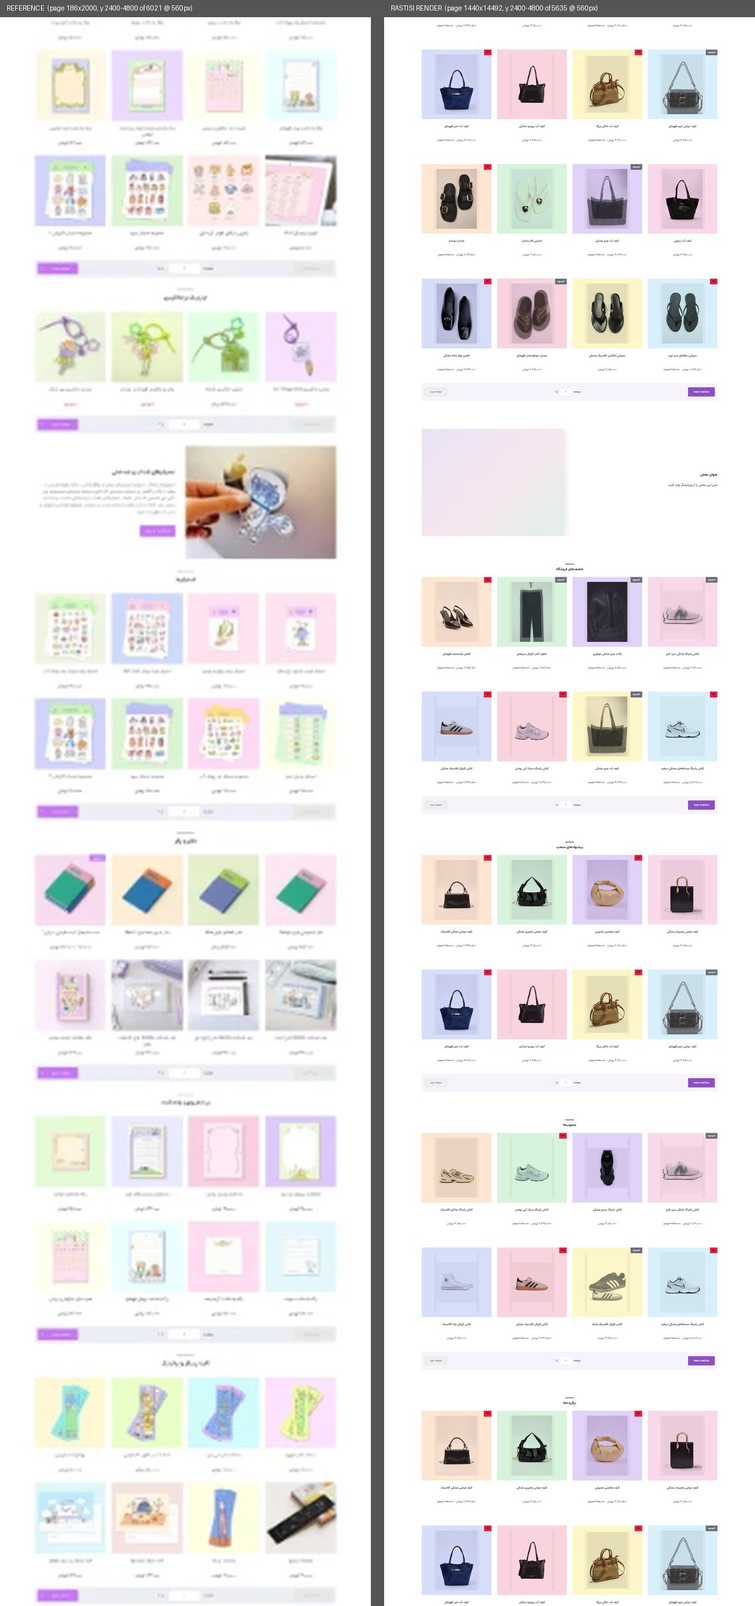
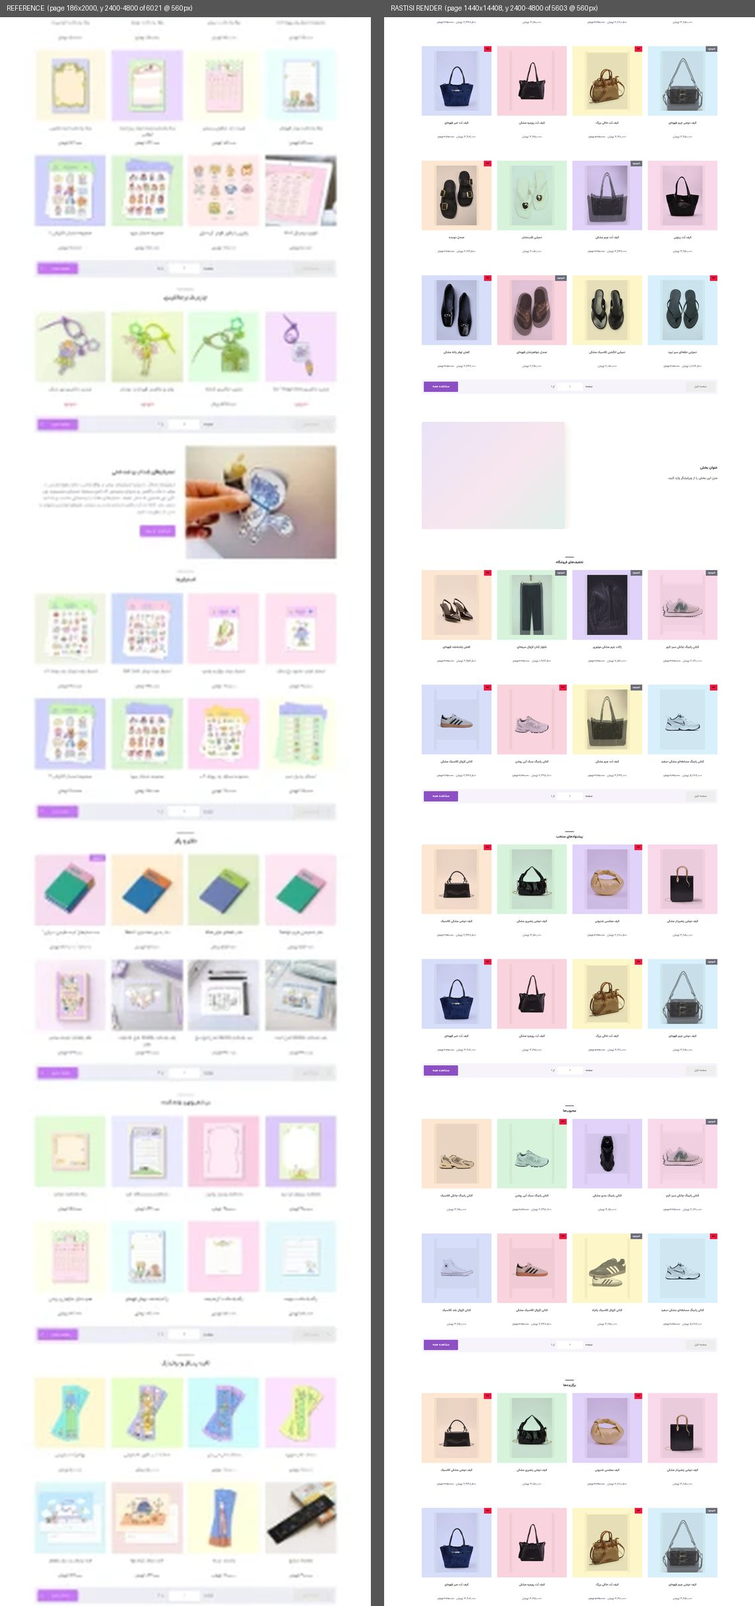
feat(templates): final fidelity closure for 51-53 (blog/brand panels, editorial tiles, pager, neutral copy, chocolate title contrast)
Claude-Session: https://claude.ai/code/session_01B3gctufboA238CDom4n7Gw

diff --git a/apps/storefront_builder/static/css/storefront_builder.css b/apps/storefront_builder/static/css/storefront_builder.css
@@ -5016,7 +5016,7 @@ a.sfb-v3-component-item,
 .category-chocolate-story-label{max-width:102px;font-size:10px;font-weight:650;line-height:1.35;white-space:nowrap;overflow:hidden;text-overflow:ellipsis}
 .category-chocolate-section{margin:16px 0 24px}
 .chocolate-section-title{text-align:center;margin-bottom:14px}
-.chocolate-section-title h2{font-size:15px;font-weight:800;color:var(--sfb-section-fg,#3c2b1d);margin:0}
+.chocolate-section-title h2{font-size:15px;font-weight:800;color:var(--sfb-section-fg,var(--ink,#3c2b1d));margin:0}
 .category-chocolate-grid{display:grid;grid-template-columns:repeat(6,minmax(0,1fr));gap:18px 16px}
 .category-chocolate-tile{display:flex;flex-direction:column;align-items:center;gap:8px;text-align:center;min-width:0;color:#3c2b1d}
 .category-chocolate-media{width:124px;height:98px;display:grid;place-items:center;position:relative;border-radius:48% 52% 45% 55%/58% 45% 55% 42%;background:#E7D1B7;overflow:hidden;box-shadow:0 3px 10px rgba(93,54,22,.07)}
@@ -5699,26 +5699,28 @@ html[data-sfb-density="compact"] .feat small{font-size:9.5px}
 
 /* ---- category_grid: gradient editorial tiles (52) ------------------ */
 .category-gradient-section{margin:22px 0 8px}
-.category-gradient-grid{display:grid;grid-template-columns:repeat(4,minmax(0,1fr));gap:20px}
-.category-gradient-tile{position:relative;display:block;aspect-ratio:1.37/1;border-radius:18px;overflow:hidden;text-decoration:none;background:#dfe6fa;color:#1d1d2b;min-width:0}
-.category-gradient-tile:nth-child(4n+1){background:linear-gradient(135deg,#c7d1f6,#e8ecfb)}
-.category-gradient-tile:nth-child(4n+2){background:linear-gradient(135deg,#f9e2a1,#fdf1cf)}
-.category-gradient-tile:nth-child(4n+3){background:linear-gradient(135deg,#cfe3f6,#eef5fb)}
-.category-gradient-tile:nth-child(4n+4){background:linear-gradient(135deg,#f8d3bf,#fde9e0)}
-.category-gradient-title{position:absolute;z-index:2;top:9%;inset-inline-start:7%;font-size:clamp(17px,2vw,27px);font-weight:900;line-height:1.35;color:#1d1d2b}
-.category-gradient-media{position:absolute;inset:auto auto 0 0;width:58%;height:60%;display:grid;align-items:end;justify-items:start}
-.category-gradient-media img{width:100%;height:100%;object-fit:contain;object-position:left bottom}
+.category-gradient-grid{display:grid;grid-template-columns:repeat(4,minmax(0,1fr));gap:32px}
+.category-gradient-tile{position:relative;display:block;aspect-ratio:1.35/1;border-radius:22px;overflow:hidden;text-decoration:none;background:#dfe6fa;color:#1d1d2b;min-width:0}
+.category-gradient-tile:nth-child(4n+1){background:linear-gradient(135deg,#f6c3d0,#fde4dc)}
+.category-gradient-tile:nth-child(4n+2){background:linear-gradient(135deg,#b8ccf8,#e2eafd)}
+.category-gradient-tile:nth-child(4n+3){background:linear-gradient(135deg,#f5d98a,#fcefbd)}
+.category-gradient-tile:nth-child(4n+4){background:linear-gradient(135deg,#8d95de,#b8bef0)}
+.category-gradient-title{position:absolute;z-index:2;top:12%;inset-inline-start:8%;font-size:19px;font-weight:900;line-height:1.35;color:#1d1d2b}
+.category-gradient-media{position:absolute;inset:auto auto 0 0;width:48%;height:72%;display:grid;align-items:end;justify-items:start}
+.category-gradient-media img{width:100%;height:100%;object-fit:contain;object-position:left bottom;mix-blend-mode:multiply}
 @media(max-width:900px){.category-gradient-grid{grid-template-columns:repeat(2,minmax(0,1fr));gap:12px}}
 
 /* ---- product_section: catalog_grid (53) ---------------------------- */
 .product-section--catalog-grid{margin:34px 0 8px}
 .rsec .product-section--catalog-grid .grid.catalog-grid-products{gap:62px 22px}
-.catalog-grid-bar-row{display:grid;grid-template-columns:auto 1fr auto;align-items:center;gap:12px;margin-top:22px;padding:8px 10px;background:color-mix(in srgb,var(--brand-primary) 7%,var(--brand-surface,#fff));min-height:70px}
-.catalog-grid-more{display:inline-flex;align-items:center;justify-content:center;height:36px;padding-inline:22px;background:var(--brand-primary);color:var(--brand-primary-fg,#fff);font-size:11px;font-weight:700;text-decoration:none;border-radius:3px}
+.catalog-grid-bar-row{display:grid;grid-template-columns:auto 1fr auto;align-items:center;gap:12px;margin-top:22px;padding:6px 8px;background:color-mix(in srgb,var(--brand-primary) 7%,var(--brand-surface,#fff));min-height:56px}
+/* reference order: the previous-page control (disabled on page 1) at the start edge, the action button at the end edge */
+.catalog-grid-next{order:1}.catalog-grid-page{order:2}.catalog-grid-more{order:3}
+.catalog-grid-more{display:inline-flex;align-items:center;justify-content:center;height:40px;padding-inline:34px;background:var(--brand-primary);color:var(--brand-primary-fg,#fff);font-size:12px;font-weight:700;text-decoration:none;border-radius:3px}
 .catalog-grid-more:hover{background:var(--brand-primary-hover,var(--brand-primary));color:var(--brand-primary-hover-fg,var(--brand-primary-fg,#fff))}
 .catalog-grid-page{justify-self:center;display:inline-flex;align-items:center;gap:8px;font-size:11px;color:var(--brand-text)}
-.catalog-grid-page-box{display:inline-grid;place-items:center;min-width:44px;height:30px;border:1px solid var(--brand-border);background:var(--brand-surface,#fff);border-radius:3px}
-.catalog-grid-next{justify-self:end;display:inline-flex;align-items:center;height:36px;padding-inline:22px;border-radius:3px;font-size:11px;background:var(--disabled-bg);color:var(--disabled-ink)}
+.catalog-grid-page-box{display:inline-grid;place-items:center;min-width:104px;height:34px;border:1px solid var(--brand-border);background:var(--brand-surface,#fff);border-radius:3px}
+.catalog-grid-next{justify-self:start;display:inline-flex;align-items:center;height:40px;padding-inline:34px;border-radius:3px;font-size:11px;background:var(--disabled-bg);color:var(--disabled-ink)}
 @media(max-width:680px){.catalog-grid-bar-row{grid-template-columns:auto 1fr;}.catalog-grid-next{display:none}.rsec .product-section--catalog-grid .grid.catalog-grid-products{gap:28px 12px}}
 
 /* ---- image_text: plain split block (53) ---------------------------- */
@@ -5765,4 +5767,23 @@ html[data-sfb-density="compact"] .feat small{font-size:9.5px}
 /* -- the empty-state note of a product rail sits on a SOLID panel when the section carries a pattern -- */
 .rsec[data-pattern] .rsec-cols>p{grid-column:1/-1;margin:0 auto;padding:10px 16px;border-radius:10px;
   background-color:var(--sfb-section-palette-bg,var(--card));color:var(--sfb-section-fg,var(--ink))!important}
+
+/* -- blog_posts panel_carousel (surface panel + one row of square-image cards) -- */
+.blog-panel{background:var(--card,#fff);border-radius:14px;box-shadow:0 1px 8px rgba(15,23,42,.06);padding:16px 22px 22px;margin:14px 0}
+.blog-panel-head{margin-bottom:14px}
+.blog-panel-head h2{display:inline-block;margin:0;padding-bottom:5px;border-bottom:2px solid var(--pink);font-size:13px;font-weight:800;color:var(--ink)}
+.blog-panel-row{display:grid;grid-template-columns:repeat(6,minmax(0,1fr));gap:14px}
+.blog-panel .blog-card--panel{display:grid;gap:8px;align-content:start;background:transparent;border:0;box-shadow:none;text-align:center}
+.blog-panel .blog-card--panel .th{position:relative;height:auto;aspect-ratio:1/1;border-radius:10px;overflow:hidden}
+.blog-panel .blog-card--panel .blog-badge{position:absolute;top:8px;inset-inline-start:8px;padding:2px 9px;border-radius:99px;background:var(--pink);color:var(--on-pink);font-size:9px;font-weight:700;line-height:1.6}
+.blog-panel .blog-card--panel .bd{padding:0}
+.blog-panel .blog-card--panel h4{margin:0 0 8px;min-height:3.4em;font-size:11px;line-height:1.7;color:var(--ink);display:-webkit-box;-webkit-line-clamp:2;-webkit-box-orient:vertical;overflow:hidden}
+.blog-panel .blog-card--panel .read{justify-content:center;padding:6px 10px;border-radius:99px;background:var(--green);color:#fff;font-size:10px}
+@media(max-width:1000px){.blog-panel-row{grid-template-columns:repeat(3,minmax(0,1fr))}}
+@media(max-width:680px){.blog-panel-row{grid-template-columns:repeat(2,minmax(0,1fr))}.blog-panel{padding:14px 12px 16px}}
+/* -- a brand carousel on a WHITE colour band reads as a surface panel (centred title with an accent underline) -- */
+.rsec[data-bg-mode="color"][style*="#FFFFFF" i]:has(>.section>.brand-carousel){border-radius:14px;box-shadow:0 1px 8px rgba(15,23,42,.06);padding:16px 22px;margin:14px 0}
+.rsec[data-bg-mode="color"][style*="#FFFFFF" i]:has(>.section>.brand-carousel)>.section>.sec-head{justify-content:center}
+.rsec[data-bg-mode="color"][style*="#FFFFFF" i]:has(>.section>.brand-carousel)>.section>.sec-head h2{padding-bottom:5px;border-bottom:2px solid var(--pink)}
+.rsec[data-bg-mode="color"][style*="#FFFFFF" i]:has(>.section>.brand-carousel)>.section>.sec-head h2 .bar{display:none}
 /* REF-TEMPLATES-51-53 END */

diff --git a/apps/storefront_builder/templates/storefront_builder/sections/blog_posts.html b/apps/storefront_builder/templates/storefront_builder/sections/blog_posts.html
@@ -3,7 +3,26 @@ Phase 3 — بلوکِ جدیدِ «مطالب وبلاگ»، ساده و قاب
 یک رندرکنندهی مختصِ V5). صفحهی جزئیاتِ مطلب هنوز در پروژه وجود ندارد
 — دقیقاً همان محدودیتِ ``catalog/home.html``ی قدیمی (``href="#"``).
 {% endcomment %}
-{% if posts %}
+{% if posts and settings.style == "panel_carousel" %}
+<section class="section blog-panel">
+  <div class="blog-panel-head"><h2>{{ settings.title|default:"آخرین مطالب وبلاگ" }}</h2></div>
+  <div class="blog-panel-row">
+    {% for post in posts %}
+    <a class="blog-card blog-card--panel" href="#">
+      {% if post.cover_image %}
+      <div class="th th-photo"><img src="{{ post.cover_image.url }}" alt="{{ post.title }}" loading="lazy">{% if post.category_label %}<span class="blog-badge">{{ post.category_label }}</span>{% endif %}</div>
+      {% else %}
+      <div class="th" style="background:{{ post.tint|default:'#f1ecfd' }}">{{ post.cover_emoji|default:"📰" }}{% if post.category_label %}<span class="blog-badge">{{ post.category_label }}</span>{% endif %}</div>
+      {% endif %}
+      <div class="bd">
+        <h4>{{ post.title }}</h4>
+        <span class="read">ادامه مطلب</span>
+      </div>
+    </a>
+    {% endfor %}
+  </div>
+</section>
+{% elif posts %}
 <section class="section">
   <div class="sec-head"><h2><span class="bar"></span>{{ settings.title|default:"آخرین مطالب وبلاگ" }}</h2></div>
   <div class="grid blog-grid">

diff --git a/apps/storefront_builder/templates/storefront_builder/sections/product_section.html b/apps/storefront_builder/templates/storefront_builder/sections/product_section.html
@@ -34,7 +34,7 @@
   <div class="catalog-grid-bar-row">
     <a href="{{ view_all_url|default:catalog_all_url }}" class="catalog-grid-more">مشاهده همه</a>
     <span class="catalog-grid-page" aria-hidden="true">صفحه <span class="catalog-grid-page-box">۱</span> از ۱</span>
-    <span class="catalog-grid-next" aria-hidden="true">صفحه بعد</span>
+    <span class="catalog-grid-next" aria-hidden="true">صفحه قبل</span>
   </div>
   {% endif %}
   {% else %}

diff --git a/apps/storefront_builder/tests/test_reference_templates_51_53.py b/apps/storefront_builder/tests/test_reference_templates_51_53.py
@@ -172,14 +172,15 @@ class ReferenceTemplateRegistryTests(SimpleTestCase):
         self.assertIn("testimonials", _home_section_keys(pastel))
 
     def test_no_marketing_copy_is_invented_for_placeholder_blocks(self):
-        """Placeholder text is an instruction, never a marketing message."""
+        """Placeholder text is a neutral structural label, never a marketing message or a person name."""
         pastel = lpr.get_layout_preset("pastel_kawaii_stationery")
         for entry in pastel.pages["home"]:
             if entry.section_key == "image_text":
                 self.assertEqual(entry.settings["title"], "عنوان بخش")
                 self.assertIn("ویرایشگر", entry.settings["body_html"])
             if entry.section_key == "testimonials":
-                self.assertEqual({i["name"] for i in entry.settings["items"]}, {"نام مشتری"})
+                self.assertEqual({i["name"] for i in entry.settings["items"]}, {"مشتری"})
+                self.assertEqual({i["quote"] for i in entry.settings["items"]}, {"نظر مشتری"})
 
 
 class ReferenceVariantContractTests(SimpleTestCase):
@@ -354,3 +355,19 @@ class ReferencePrimitiveRenderTests(SimpleTestCase):
         self.assertNotIn("show_quick_view", section_registry.validate_card_settings({}))
         self.assertIs(section_registry.validate_card_settings({"show_quick_view": False})["show_quick_view"], False)
         self.assertNotIn("show_quick_view", section_registry.validate_card_settings({"show_quick_view": True}))
+
+
+class BlogPanelPrimitiveTests(SimpleTestCase):
+    def test_blog_panel_style_is_written_only_when_selected(self):
+        from apps.storefront_builder import section_registry as sr
+
+        self.assertNotIn("style", sr.validate_blog_posts_settings({"title": "x", "item_limit": 5}))
+        self.assertNotIn("style", sr.validate_blog_posts_settings({"style": "grid"}))
+        self.assertEqual(sr.validate_blog_posts_settings({"style": "panel_carousel"})["style"], "panel_carousel")
+
+    def test_spectrum_recipe_uses_the_generic_panel_presentations(self):
+        spectrum = lpr.get_layout_preset("stationery_spectrum")
+        blog = [e for e in spectrum.pages["home"] if e.section_key == "blog_posts"][0]
+        self.assertEqual(blog.settings["style"], "panel_carousel")
+        brands = [e for e in spectrum.pages["home"] if e.section_key == "brand_carousel"][0]
+        self.assertEqual(brands.settings["background"], {"mode": "color", "color": "#FFFFFF"})

diff --git a/apps/storefront_builder/a9_reference_templates.py b/apps/storefront_builder/a9_reference_templates.py
@@ -164,9 +164,10 @@ _SPECTRUM_HOME = (
     _spectrum_band("بازی و آموزش", "newest", "tone-5"),
     PresetSectionEntry("brand_carousel", settings={
         "title": "بهترین برندهای فروشگاه", "display_mode": "carousel", "show_view_all": False,
+        "background": {"mode": "color", "color": "#FFFFFF"},
         "spacing": _SPECTRUM_SPACING,
     }),
-    PresetSectionEntry("blog_posts", settings={"title": "مجله فروشگاه", "item_limit": 6}),
+    PresetSectionEntry("blog_posts", settings={"title": "مجله فروشگاه", "item_limit": 6, "style": "panel_carousel"}),
 )
 _SPECTRUM_NAMES = (
     "banner_strip", "offer_flash", "hero", "categories", "trust", "banner_tiles",
@@ -447,10 +448,10 @@ register_layout_preset(LayoutPresetDefinition(
             PresetSectionEntry("testimonials", settings={
                 "title": "نظرات مشتریان", "style": "avatar_grid",
                 "items": [
-                    {"name": "نام مشتری", "quote": "متن نظر مشتری در این بخش نمایش داده میشود."},
-                    {"name": "نام مشتری", "quote": "متن نظر مشتری در این بخش نمایش داده میشود."},
-                    {"name": "نام مشتری", "quote": "متن نظر مشتری در این بخش نمایش داده میشود."},
-                    {"name": "نام مشتری", "quote": "متن نظر مشتری در این بخش نمایش داده میشود."},
+                    {"name": "مشتری", "quote": "نظر مشتری"},
+                    {"name": "مشتری", "quote": "نظر مشتری"},
+                    {"name": "مشتری", "quote": "نظر مشتری"},
+                    {"name": "مشتری", "quote": "نظر مشتری"},
                 ],
             }),
         ), (

diff --git a/apps/storefront_builder/section_registry.py b/apps/storefront_builder/section_registry.py
@@ -1913,7 +1913,12 @@ def validate_blog_posts_settings(raw: dict) -> dict:
         raise BlogPostsSettingsError("تعدادِ مطالب باید عدد باشد") from None
     item_limit = max(_MIN_BLOG_POST_ITEMS, min(_MAX_BLOG_POST_ITEMS, item_limit))
     title = str(raw.get("title", "")).strip()[:_MAX_SECTION_TITLE_LENGTH]
-    return {"item_limit": item_limit, "title": title}
+    cleaned = {"item_limit": item_limit, "title": title}
+    # Optional presentation (written only when non-default): ``panel_carousel`` = one surface panel holding a
+    # single row of square-image cards with a category badge and an action pill.
+    if raw.get("style") == "panel_carousel":
+        cleaned["style"] = "panel_carousel"
+    return cleaned
 
 
 def default_blog_posts_settings() -> dict:
@@ -1930,6 +1935,10 @@ BLOG_POSTS_SCHEMA = SettingsSchema(fields=(
         "item_limit", "تعداد مطالب", "integer", "advanced",
         default=_DEFAULT_BLOG_POST_ITEMS,
         min_value=_MIN_BLOG_POST_ITEMS, max_value=_MAX_BLOG_POST_ITEMS,
+    ),
+    SettingsField(
+        "style", "نوع نمایش", "choice", "basic", default="grid",
+        choices=(("grid", "گرید"), ("panel_carousel", "پنل با ردیف کارت")),
     ),
 ))
 

diff --git a/docs/qa_evidence/ready_templates_51_53/DIFFERENCE_REPORT.md b/docs/qa_evidence/ready_templates_51_53/DIFFERENCE_REPORT.md
@@ -24,9 +24,9 @@ The seeded demo store only has 3 categories, fashion photos and no brands/badges
 
 | | reference | render | main cause of the difference |
 |---|---|---|---|
-| 51 page height | 7978 | ≈ 6630 | footer 913 vs ≈ 500 (DATA: badges/paragraph), blog/brand panel (ENGINE), top block 1492 vs ≈ 1334 |
-| 52 page height | 5571 | ≈ 4263 | footer/newsletter block and "recently viewed" panel (DATA/INTENT), campaign bands +13 % |
-| 53 page height | 15484 | ≈ 14492 | content column 1169 px (ref) vs 1148 px (render); image rhythm |
+| 51 page height | 7978 | ≈ 6800 | footer 913 vs ≈ 500 (DATA: badges/paragraph), two lazy-load gaps in the capture (INTENTIONAL), top block 1492 vs ≈ 1334 |
+| 52 page height | 5571 | ≈ 4260 | footer/newsletter block and "recently viewed" panel (DATA/INTENT), campaign bands +13 % |
+| 53 page height | 15484 | ≈ 14410 | content column 1169 px (ref) vs 1148 px (render); image rhythm; reference blog/about blocks |
 
 ## Template 51 — `stationery_spectrum` ("تحریر رنگی")
 
@@ -49,7 +49,8 @@ brand carousel (126) · blog grid (264) · `stationery_dark` footer (≈ 500).
 | centre-stepper product cards, no quick view | matched | — |
 | strip banner | image banner of 64 px, but demo image, no artwork | DATA |
 | paired rails | two lazy-load gaps in the capture are filled with the same rail component | INTENT |
-| blog and brand panels (white panel + title chip + 6 carded items with a button) | **not reproduced**: plain grid / carousel | ENGINE |
+| brand panel: white rounded surface, centred title with accent underline | reproduced (white colour band + generic panel look); brand tiles show names | ASSET (no logos) |
+| blog panel: white rounded surface, one row of square-image cards with category badge, 2-line title, action pill | reproduced via the new generic `blog_posts` option `style: panel_carousel`; 4 cards (4 demo posts) instead of 6; no side arrows, no heading icon | DATA (post count) / ENGINE (arrows, icon) |
 | footer (links bar, 4th column, paragraph, 5 badge tiles) | structure present, badge row/paragraph absent | DATA |
 | header proportions | close, not measured per element | — |
 
@@ -68,7 +69,7 @@ wall `featured_row` (563) · newsletter (146) · features (70) · `beauty_retail
 |---|---|---|
 | hero height/ratio, dots only | matched (506 vs 521) | — |
 | icon tiles: purple glyph tiles, no photos, 6-track geometry | matched; 3 tiles shown | DATA |
-| gradient tiles: gradient + text + picture, 4 columns | matched; 3 tiles shown | DATA |
+| gradient tiles: 4 columns, gap ≈ 32 px, ratio ≈ 1.35, radius 22 px, pink/blue/yellow/indigo order, bold title top-start, picture bottom-end | matched; 3 tiles shown; picture is a rectangular photo (the reference uses cut-out PNGs); the reference's second text line (category description) is not rendered because categories have no description field | ASSET / DATA |
 | campaign bands | matched in structure; ≈ 13 % taller than reference | ENGINE (card height) |
 | wall / banner pair / featured row | matched in structure and order | — |
 | "recently viewed" heading with empty body | omitted — the region is empty in the capture | INTENT |
@@ -89,7 +90,7 @@ blog (376) · avatar testimonials (340) · `kawaii_minimal` footer (79).
 | aspect | status | class |
 |---|---|---|
 | group count/rhythm, 4 columns, square tinted images | matched | — |
-| pager bar (button, page number, next) | built as a real bar; styling approximated | ENGINE (reference blurred) |
+| pager bar | order, proportions and states now follow the reference (disabled previous-page control at the start edge, page box with «صفحه … از ۱» in the centre, purple action button at the end edge, ≈ 56 px bar); colours come from palette tokens | — |
 | plain image/text block | plain image box + placeholder structure | — |
 | content column width | 1148 px vs 1169 px (−2 %) | ENGINE (width presets) |
 | hero offset above first section | ≈ 50 px larger than reference | not tuned |
@@ -101,28 +102,45 @@ blog (376) · avatar testimonials (340) · `kawaii_minimal` footer (79).
 | # | v1 approximation | v2 |
 |---|---|---|
 | 51 | decorative strip no longer text-only | **YES** (64 px image banner via `strip-art`; demo image) |
-| 51 | blog / brand boxes closer to reference | **NO** (only the thumbnail-overflow bug that hid blog text was fixed; panel wrapper not built) |
+| 51 | blog / brand boxes closer to reference | **PARTIAL → YES for structure** (both panels reproduced in the closure pass; arrows, heading icon, card count and brand logos still differ) |
 | 51 | band heights / order / patterns closer | **YES** |
 | 52 | purple icon category tiles | **YES** (`icon_tiles`, no photos) |
-| 52 | four coloured editorial tiles | **PARTIAL** (`gradient_tiles` text + picture, 4-column geometry; 3 tiles with demo data) |
+| 52 | four coloured editorial tiles | **PARTIAL** (geometry, gap, radius, colour order, text placement matched in the closure pass; cut-out artwork and subtitle line are missing) |
 | 52 | unrelated final product row removed | **YES** |
-| 53 | pager closer | **PARTIAL** |
+| 53 | pager closer | **YES** (closure pass) |
 | 53 | image/text blocks no longer generic tan boxes | **YES** |
-| 53 | invented placeholder marketing copy removed/reduced | **PARTIAL** (no marketing claims; neutral placeholder lines such as «نام مشتری» and instruction-style block text remain) |
+| 53 | invented placeholder marketing copy removed/reduced | **YES** (closure pass: testimonials now carry only the neutral labels «مشتری» / «نظر مشتری»; block placeholders are editor instructions «عنوان بخش» / «متن این بخش را از ویرایشگر وارد کنید.»; no person names or marketing sentences) |
 | 53 | generic extra feature boxes removed | **YES** |
 | 53 | quick-view buttons suppressed | **YES** (generic `show_quick_view` card option, set false only in 51/52/53) |
 
+## Final closure pass (this commit)
+
+| item | status |
+|---|---|
+| Template 51 blog/brand panels | **PARTIAL** (structure fixed; arrows/heading icon = ENGINE, 4 of 6 cards = DATA, brand logos = ASSET) |
+| Template 52 editorial tiles | **PARTIAL** (cut-out artwork = ASSET, category subtitle = DATA) |
+| Template 53 pager | **FIXED** |
+| Template 53 placeholder copy | **FIXED** (neutral structural labels only) |
+| Template-switch step-5 failure | **FIXED** (real defect, not an artifact — see below) |
+
+New generic primitive in this pass: `blog_posts.style = "panel_carousel"` (written only when selected; exposed as a choice in the settings schema).
+Brand panel uses the existing white colour band (no new setting).
+
+### Step-5 root cause
+Transition `stationery_spectrum → night_catalog`, category presentation `chocolate_story`, rest state, page `#070707`:
+selector `section.category-chocolate-story-section > div.chocolate-section-title > h2`, foreground `#3C2B1D`, background
+`#070707`, ratio 1.49:1 (need 4.5). It is a real, pre-existing defect class: `.chocolate-section-title h2` painted a fixed brown on the
+**page** surface. It only appeared at step 5 because a preserved title-bearing category section (templates 52/53 carry a category title;
+template 51 has none) met a dark palette. Fixed by painting the title with the page ink token (`--sfb-section-fg`, else `--ink`).
+Reproduced and re-verified with only that transition (steps 1–5 replayed at service level, step 5 measured with all 11 category
+presentations plus the 6 band presentations on the published page): **0 failures**.
+
 ## Contrast verification (honest status)
 
-* Runtime `storefront-templates` audit (home, listing, product, cart; rest + hover + active + focus + toggles) on the
-  v2 code, 1440 px: **51 = 0 failures, 52 = 0 failures, 53 = 0 failures** (run before the last two small CSS commits:
-  category-row geometry and band-aware title/newsletter/empty-note colours).
-* Deterministic contrast tests (`test_css_token_contrast`, `test_contrast_utils`, `test_ready_template_contrast`,
-  `test_template_switch_contrast`) were part of a 976-test focused run; only two failures, neither caused by this work
-  (`test_u8_template_gallery` fails identically on the contrast base; the palette-count contract was updated afterwards).
-* `template-switch` suite with matrix `stationery_spectrum, night_catalog, magenta_beauty_retail, pastel_kawaii_stationery`:
-  first run found real defects that were fixed (band-aware `beauty-section-title`/`chocolate-section-title`, `blog-card .read`,
-  `special-list-price`, featured wall title chip, newsletter on a colour band, empty-state note over patterns,
-  blog thumbnail overflow). The rerun **was stopped after step 3 (steps 1–3 clean; 0 stale tokens; 0 errors) because it was taking
-  too long**. Its log showed `failures_so_far=1` at step 5 (stationery_spectrum → night_catalog); that single finding was
-  **not diagnosed**. Steps 4–7, the final published-vs-preview token check and the post-fix rest audits were not re-run.
+* Runtime `storefront-templates` audit (home, listing, product, cart; rest state) on the final code, 1440 px:
+  **51 = 0 failures, 52 = 0 failures, 53 = 0 failures**. Hover/active/focus/toggle sweeps were not repeated in the closure pass
+  (they passed in the previous full runs; no interactive-state CSS changed except the pager, which is not interactive on a single page).
+* Deterministic tests (`test_css_token_contrast`, `test_ready_template_contrast`, `test_template_switch_contrast`, `test_section_registry`,
+  `test_reference_templates_51_53`): 349 tests OK.
+* Full 7-step `template-switch` suite: **not completed**. Its second run was stopped after step 3 (steps 1–3 clean); the only finding it
+  had logged by step 5 is the one diagnosed and fixed above. Steps 4–7 and the final preview-vs-published token comparison were not re-run.
